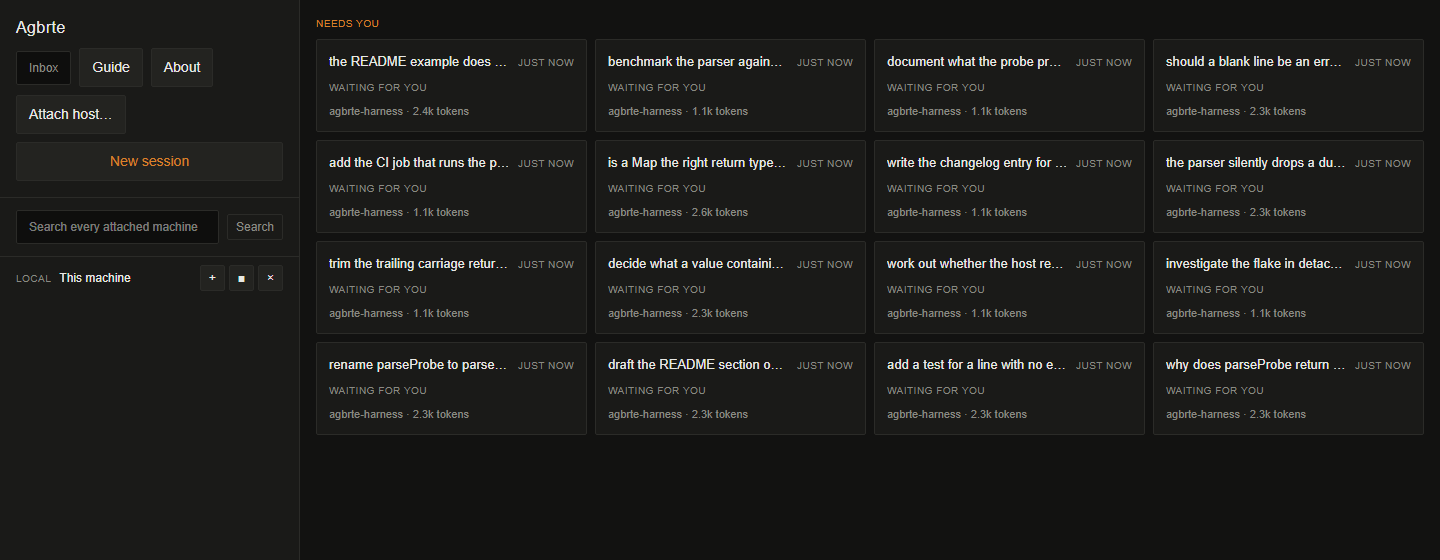
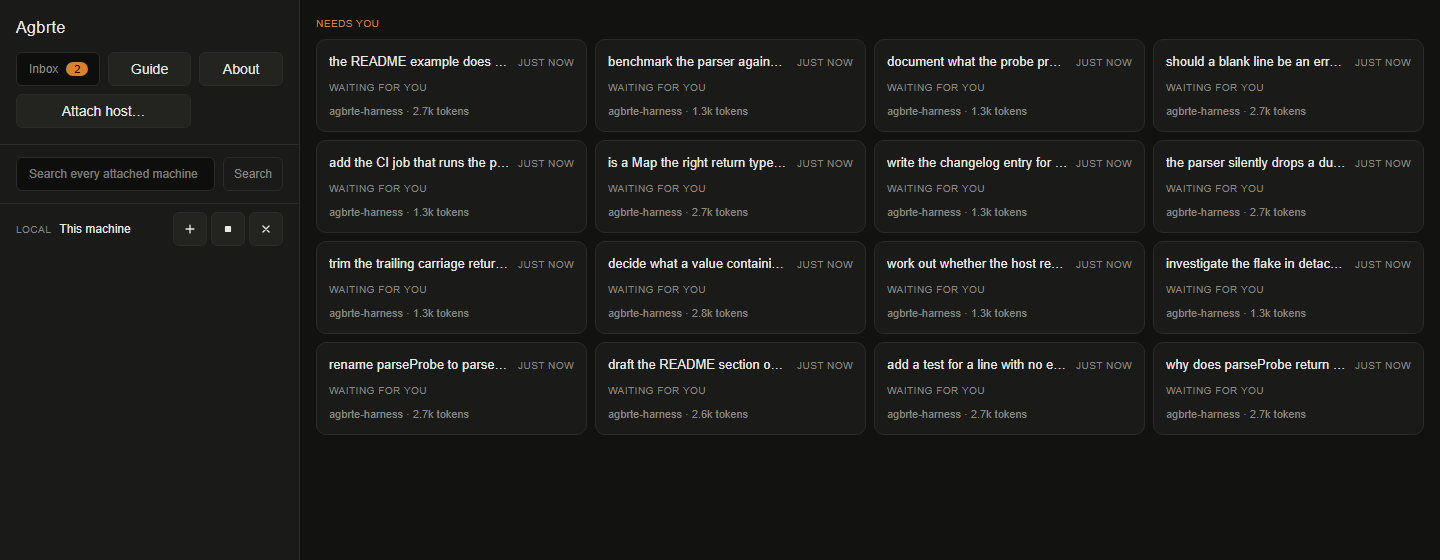
Show the features that only existed as sentences
The README described skills and MCP servers as files in the repository, a
workflow as a graph, and a forwarded port as a way to reach a machine —
and showed three pictures, none of which contained any of it. An argument
made only in prose is one a reader has to take on trust, which is the
thing the picture is for.

Two shots are added and the fixture grows the files they are about: a
workspace that declares a workflow with a join in it, a skill, and an MCP
server. The form then lists what the folder holds, asks for the one value
that server needs *by name*, and says the key is kept on the machine and
not in the repository — three features in one frame, and all of them the
same argument.

The feature list gains what shipped since it was written: the declaration
story as its own bullet rather than a clause inside another, workflows
being schedulable on the host, the `fetch` tool and what a standing grant
does not cover, and the tunnel that carries a desktop as well as a dev
server.

**Three things in the shots spec came out of looking at the PNGs**, which
is the only thing that catches them — nothing here asserts, and a wrong
picture has the right size and the right date.

The workflow shot was first taken at 900px and the bottom two thirds were
black, which is the exact criticism this file's own header makes of the
first set it ever produced. It is 600 now.

The phone shot became a picture of the workflows pane, captioned in the
[…]

diff --git a/tests/e2e/shots.spec.ts b/tests/e2e/shots.spec.ts
@@ -121,6 +121,88 @@ const WORK = [
 ];
 
 /** A repository with something in it, so a turn has something to be about. */
+/**
+ * What a project declares, as files in the repository it declares them in.
+ *
+ * These are the pictures the README was missing. A workflow, a skill and an MCP
+ * server are all *files in `templates/`*, which is the whole argument for them
+ * (§17 Q12, §4.4) — and an argument made only in prose is one nobody can see. A
+ * reader looking at the form finds a list that came from a folder, which is the
+ * thing the sentence is about.
+ *
+ * Real content rather than `foo`/`bar`, for `WORK`'s reason one screen up: these
+ * end up in the README, and placeholder text there is a picture of placeholder
+ * text.
+ */
+async function declareThings(repo: string): Promise<void> {
+  const dir = join(repo, '.agbrte', 'templates');
+  await mkdir(dir, { recursive: true });
+
+  const node = (
+    id: string,
+    scope: string,
+    needs?: string[],
+  ): Record<string, unknown> => ({
+    id,
+    title: id,
+    scope,
+    outOfScope: ['anything outside src/'],
+    acceptance: ['it is written down'],
+    contract: { summaryMaxTokens: 800, artifacts: [] },
+    tokenCeiling: 20_000,
+    ...(needs === undefined ? {} : { needs }),
+  });
+
+  // A join — two parts meeting at one — because that is the shape a session tree
+  // cannot express and therefore the reason the picture is worth taking.
+  await writeFile(
+    join(dir, 'review.workflow.json'),
+    JSON.stringify(
+      {
+        id: 'review',
+        name: 'review this branch',
+        goal: 'find what is broken before anybody else does',
+        nodes: [
+          node('scan', 'list every file the branch touched'),
+          node('tests', 'run the suite and report what failed', ['scan']),
+          node('lint', 'run the linters and report what they said', ['scan']),
+          node('report', 'write up what the two found, together', ['tests', 'lint']),
+        ],
+      },
+      null,
+      2,
+    ),
+    'utf8',
+  );
+
+  await writeFile(
+    join(dir, 'commits.skill.md'),
+    [
+      '---',
+      'description: How commit messages are written in this repository',
+      '---',
+      '',
+      'They say why, and they record what broke: the defect that produced the',
+      'line, what the wrong version cost, and which alternative was rejected.',
+      '',
+    ].join('\n'),
+    'utf8',
+  );
+
+  // Declared but not yet usable on this machine, which is the honest state and
+  // the more informative picture: the form asks for the one value it needs, by
+  // name, and the key is never in the file.
+  await writeFile(
+    join(dir, 'search.mcp.json'),
+    JSON.stringify(
+      { command: 'npx', args: ['-y', 'mcp-searxng@2.2.0'], envFrom: { SEARXNG_URL: 'SEARXNG_URL' } },
+      null,
+      2,
+    ),
+    'utf8',
+  );
+}
+
 async function fillRepo(repo: string): Promise<void> {
   await writeFile(
     join(repo, 'README.md'),
@@ -182,6 +264,7 @@ test.describe('@shots', () => {
 
     try {
       await fillRepo(web.repo);
+      await declareThings(web.repo);
 
       for (const { title, prompt } of WORK) {
         execFileSync(
@@ -236,11 +319,79 @@ test.describe('@shots', () => {
         await page.screenshot({ path: `${OUT}/02-session.png` });
       }
 
-      // The phone shape, which §12 and the CSS both take seriously.
+      /*
+       * The phone shape, which §12 and the CSS both take seriously — and it
+       * stays *here*, before the two shots below.
+       *
+       * Which pane and which session are open both survive a reload, so this
+       * came out as a picture of the workflows pane — captioned in the README as
+       * a dashboard on a phone. Nothing here asserts, the file was the right size
+       * and the right date, and only looking at the PNG caught it.
+       *
+       * Ordering it before those two was not enough: a *session* survives the
+       * reload as well, and on a phone one pane fills the screen (§12), so the
+       * shot came back as a transcript. So it says which view it wants.
+       *
+       * `back-to-list` and not `show-main`, which was the first attempt and is
+       * the opposite control: `show-main` gives the pane to the *session*, which
+       * is where this already was. `phone.spec.ts` drives the right one, and
+       * reading it beat guessing from a testid that sounded plausible.
+       */
       await page.setViewportSize({ width: 390, height: 844 });
       await page.goto(web.url);
       await page.waitForTimeout(1500);
+      const back = page.locator('[data-testid=back-to-list]');
+      if (await back.isVisible()) {
+        await back.click();
+        await page.waitForTimeout(600);
+      }
       await page.screenshot({ path: `${OUT}/03-phone.png` });
+
+      /*
+       * What a project declares, which is three features and one picture.
+       *
+       * The new-session form is where a workflow, a skill and an MCP server all
+       * arrive, because all three are files in `templates/` and the form lists
+       * what the folder holds. A reader who has only been *told* that sees a
+       * sentence; here they see a list that came from a directory, with the MCP
+       * server asking for the one value it needs by name and the key nowhere in
+       * it (§13).
+       *
+       * Taller than the session shot, because this form is the tallest thing in
+       * the app when everything a project can declare is in one workspace.
+       */
+      await page.setViewportSize({ width: 1440, height: 900 });
+      await page.goto(web.url);
+      await page.waitForSelector('[data-testid=host]', { timeout: 30_000 });
+      await page.locator('[data-testid=new-session]').first().click();
+      await page.waitForSelector('[data-testid=new-servers]', { timeout: 20_000 });
+      // Opened, because a folded `details` photographs as a word.
+      await page.locator('[data-testid=new-server-catalogue] summary').click();
+      // Ticked, so the row shows the question it asks rather than only the offer.
+      await page.locator('[data-testid=new-server][data-id=search] [data-testid=new-server-pick]').check();
+      await page.waitForTimeout(600);
+      await page.screenshot({ path: `${OUT}/04-declared.png` });
+
+      /*
+       * The workflow, drawn.
+       *
+       * §4.4's argument is that a decomposition written down is reviewable in a
+       * diff and a picture at the same time, and the join — two parts meeting at
+       * one — is the thing a session tree cannot express. That is why the
+       * fixture has one, and why this is a picture rather than a paragraph.
+       */
+      await page.locator('[data-testid=open-workflows]').first().click();
+      await page.waitForSelector('[data-testid=workflow-row]', { timeout: 20_000 });
+      /*
+       * Shorter than the form above, for the reason the dashboard is shorter
+       * than a session: one document and a four-node graph end around 520px, and
+       * the 900 this was first taken at left the bottom two thirds black — which
+       * is the exact criticism this file's own header makes of the first set.
+       */
+      await page.setViewportSize({ width: 1440, height: 600 });
+      await page.locator('[data-testid=workflow-shape] summary').first().click();
+      await page.waitForTimeout(600);
+      await page.screenshot({ path: `${OUT}/05-workflow.png` });
     } finally {
       await web.stop();
     }

diff --git a/README.md b/README.md
@@ -57,6 +57,10 @@ two builds on one computer, and what the test commands cover.
 | :-- | :-- | :-- |
 | Every session on every attached machine, ranked by **who needs a human**. | One session: a tool call, the permission it went through, and the answer. | The same app in a phone browser on your own network, driving a run on a build box. |
 
+| ![What the project declares](docs/shots/04-declared.png) | ![A workflow, drawn](docs/shots/05-workflow.png) |
+| :-- | :-- |
+| What this project declares, offered when a session is made: skills and MCP servers that are **files in the repository**, and a key asked for by name — kept on the machine, never in the file. | A workflow is a decomposition written down before it runs. The graph is the document; two parts meeting at one is the shape a session tree cannot express. |
+
 *(Real turns against a local `qwen2.5:7b`, captured by `AGBRTE_WRITE_FIXTURES=1 npx playwright test shots --grep @shots`.)*
 
 ## The one idea
@@ -92,11 +96,17 @@ after a restart are not three features but three consequences of that.
   hold can split into a child with its own log, and a slice of its budget when
   it has one to give — on another machine, if that is where the work is.
   Sessions can also be *grouped* and reach each other one bounded message at a
-  time, carrying words and never authority. MCP servers and skills attach per
-  session, not from an app-wide registry somebody enabled months ago — and a
-  skill can be a file in the repository, so "how we write commit messages here"
-  is something a colleague gets by cloning rather than by being told, and still
-  something ticked onto one session by the person making it.
+  time, carrying words and never authority.
+- **What a project uses is a file in the project.** A skill — "how we write
+  commit messages here" — and an MCP server are both files in a tracked
+  directory, so a colleague gets them by cloning rather than by being told, and
+  a change to either arrives as a diff. Nothing attaches itself: they are
+  offered when a session is made and ticked by the person making it, which is
+  the whole distinction from an app-wide registry somebody enabled months ago.
+  The app knows a couple of servers and will write the declaration for you,
+  saying what each costs to start before you pick one. **The key never goes in
+  the file** — the declaration names a variable, the machine holds the value,
+  and the form asks for whatever is missing by name.
 - **A decomposition can be written down before it runs.** A *workflow* is a file
   in the repository: what the parts are, what each one may not touch, what it
   owes back, and what it waits on. Because it is a file it is reviewed in a diff
@@ -104,7 +114,20 @@ after a restart are not three features but three consequences of that.
   autonomous one is not — and the same refusals a split meets at spawn are raised
   while it is being written, in an editor that draws the graph. Running one
   spawns each part as its dependencies finish; a part that fails stops what
-  needed it and nothing else.
+  needed it and nothing else — and the same picture carries the run, so which
+  part is going is where the shape already was. A workflow can also be left to
+  run on a routine, which happens on the host: closing the app does not close
+  the schedule.
+- **The network is a named door rather than a shell command.** `fetch` reads a
+  page as a tool, so which sites a session read is a question the log answers and
+  a policy rule can match — and it refuses the addresses that mean *this machine*
+  or *this network*, because a control channel and a cloud metadata service both
+  answer there. A standing grant does not cover it: "stop asking me" is a person
+  taking responsibility for what their own agent does, not for what a web page
+  tells it to do.
+- **A port on a remote machine comes to a local one**, and it is a plain tunnel,
+  so it carries a dev server to your browser or that machine's **desktop** to
+  your own remote-desktop client.
 - **A real terminal that says when it is off the record.** The PTY pane writes no
   events, passes no permission gate and spends your own allowance, and its header
   says so every time it is open.
